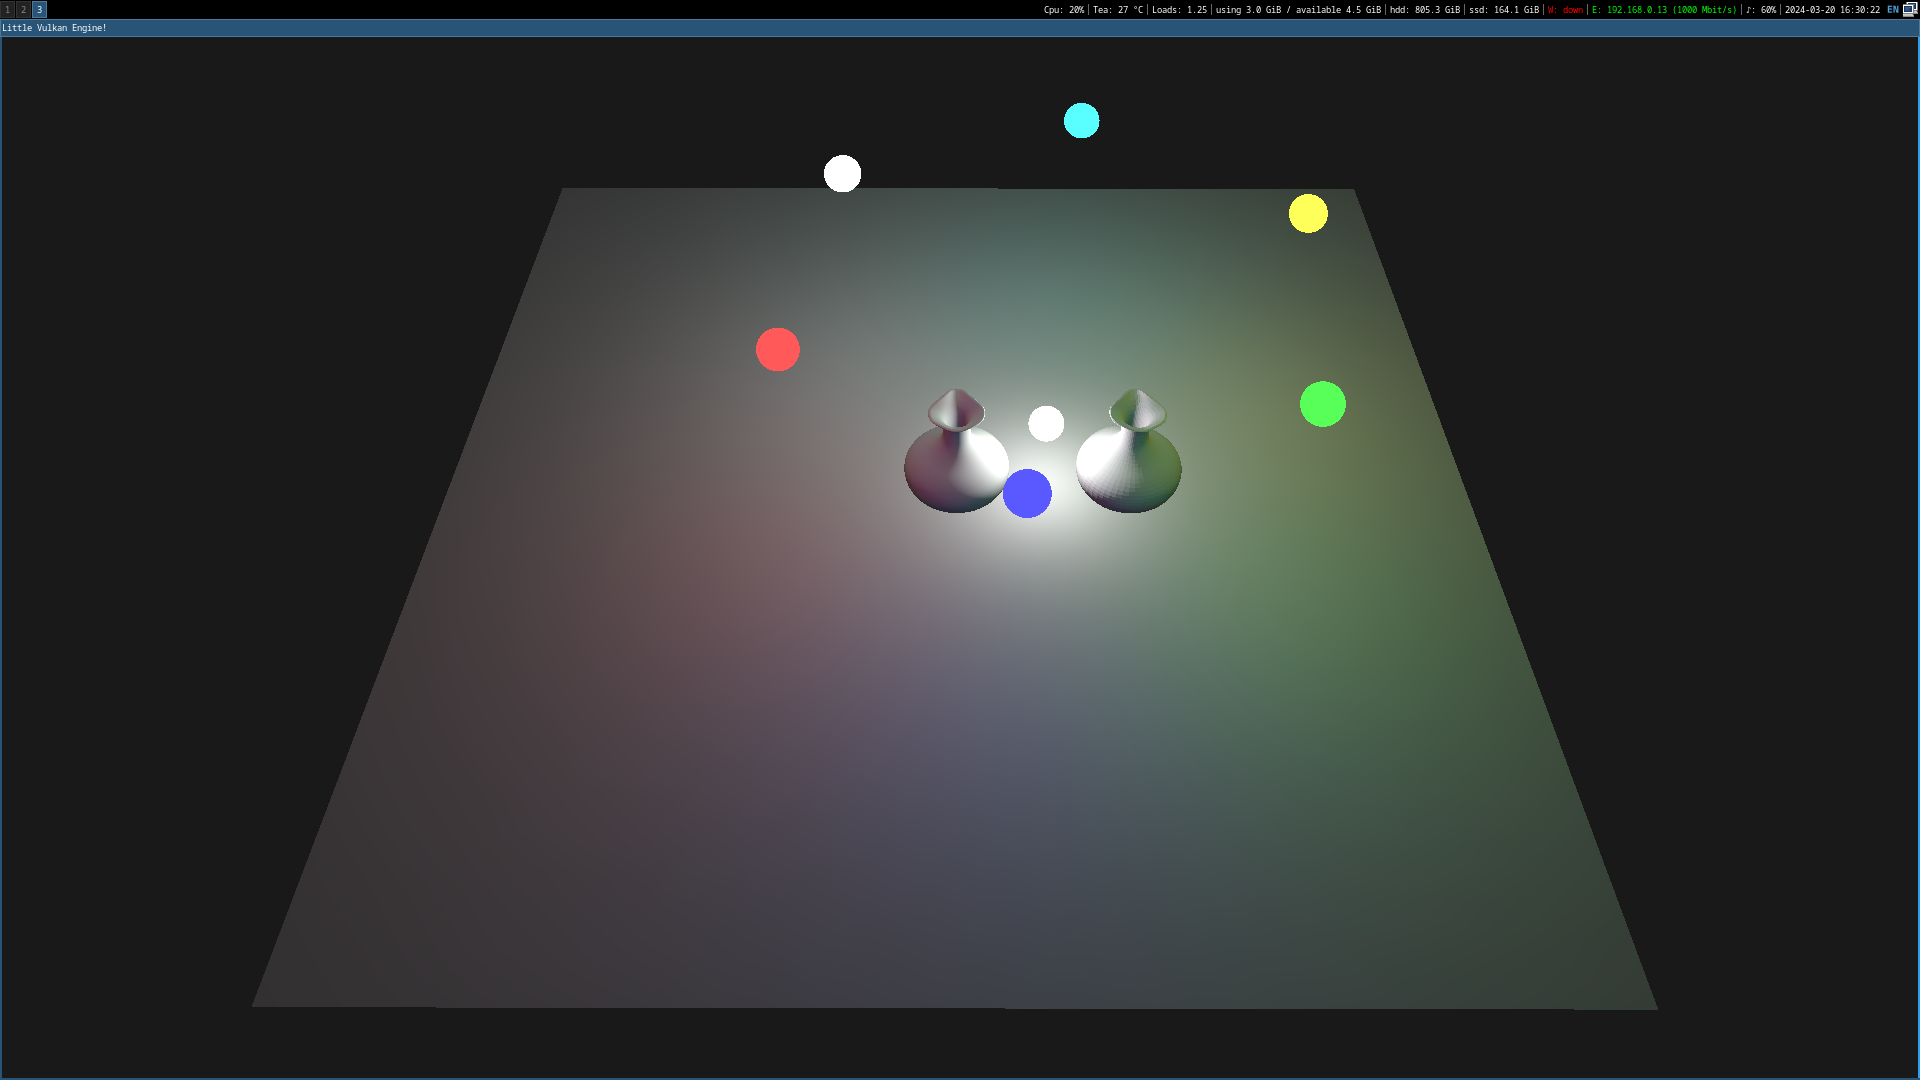
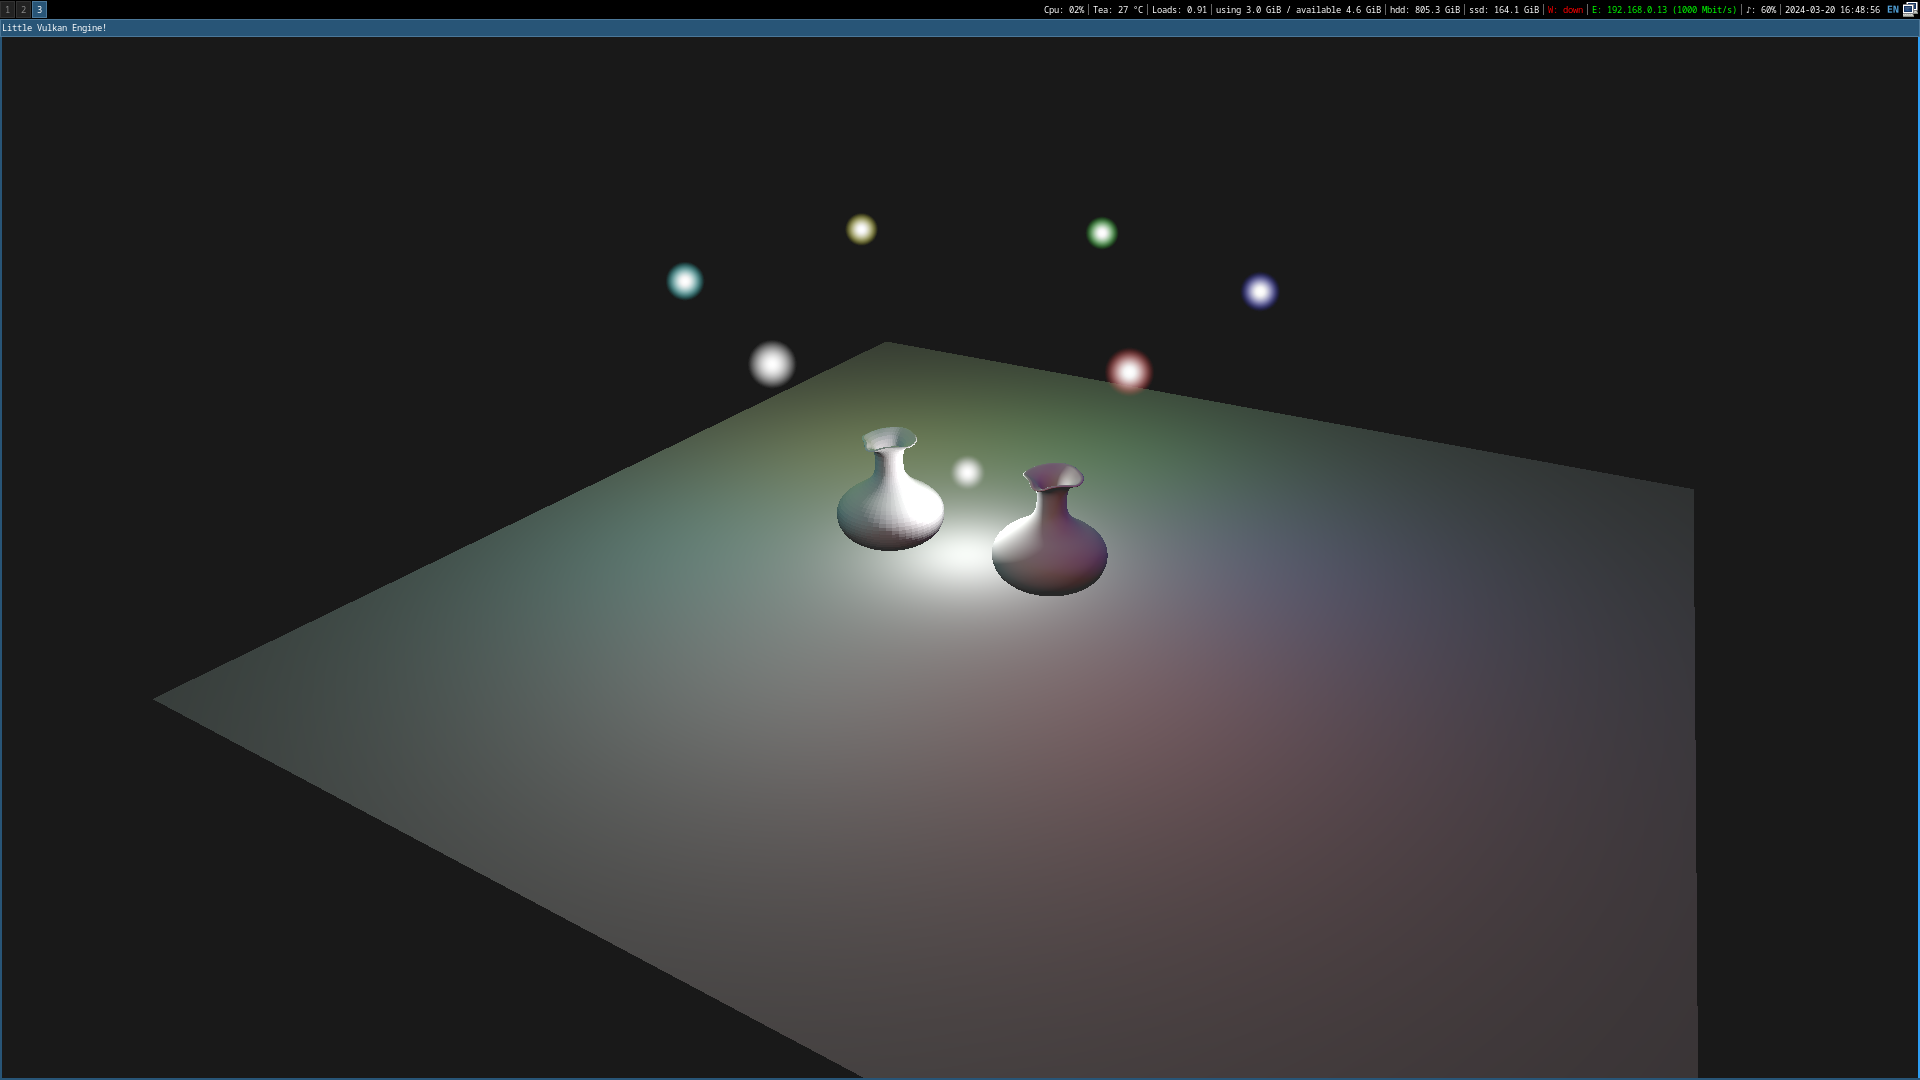
alpha blending and transparency

diff --git a/little_vulkan_engine/point_light_system.cpp b/little_vulkan_engine/point_light_system.cpp
@@ -7,6 +7,7 @@
 
 #include <array>
 #include <stdexcept>
+#include <map>
 
 namespace lve
 {
@@ -55,6 +56,8 @@ namespace lve
 
         PipelineConfigInfo pipelineConfig{};
         LvePipeline::defaultPipelineConfigInfo(pipelineConfig);
+        LvePipeline::enableAlphaBlending(pipelineConfig);
+
         pipelineConfig.attributeDescriptions.clear();
         pipelineConfig.bindingDescriptions.clear();
         pipelineConfig.renderPass = renderPass;
@@ -88,6 +91,16 @@ namespace lve
 
     void PointLightSystem::render(FrameInfo &frameInfo)
     {
+        std::map<float, LveGameObject::id_t> sorted;
+        for (auto& kv : frameInfo.gameObjects) {
+            auto& obj = kv.second;
+            if (obj.pointLight == nullptr) continue;
+
+            auto offset = frameInfo.camera.getPosition() - obj.transform.translation;
+            float disSquared = glm::dot(offset, offset);
+            sorted[disSquared] = obj.getId();
+        }
+
         this->lvePipeline->bind(frameInfo.commandBuffer);
         vkCmdBindDescriptorSets(
             frameInfo.commandBuffer,
@@ -99,10 +112,8 @@ namespace lve
             0,
             nullptr);
 
-        for (auto& kv : frameInfo.gameObjects) {
-            auto& obj = kv.second;
-            if (obj.pointLight == nullptr) continue;
-
+        for (auto it = sorted.rbegin(); it != sorted.rend(); ++it) {
+            auto& obj = frameInfo.gameObjects.at(it->second);
             PointLightPushConstants push{};
             push.position = glm::vec4(obj.transform.translation, 1.f);
             push.color = glm::vec4(obj.color, obj.pointLight->lightIntesity);

diff --git a/little_vulkan_engine/lve_pipeline.cpp b/little_vulkan_engine/lve_pipeline.cpp
@@ -204,4 +204,15 @@ namespace lve
         configInfo.bindingDescriptions = LveModel::Vertex::getBindingDescriptions();
         configInfo.attributeDescriptions = LveModel::Vertex::getAttributeDescriptions();
     }
+
+    void LvePipeline::enableAlphaBlending(PipelineConfigInfo& configInfo) {
+        configInfo.colorBlendAttachment.blendEnable = VK_TRUE;
+        configInfo.colorBlendAttachment.colorWriteMask = VK_COLOR_COMPONENT_R_BIT | VK_COLOR_COMPONENT_G_BIT | VK_COLOR_COMPONENT_B_BIT | VK_COLOR_COMPONENT_A_BIT;
+        configInfo.colorBlendAttachment.srcColorBlendFactor = VK_BLEND_FACTOR_SRC_ALPHA;
+        configInfo.colorBlendAttachment.dstColorBlendFactor = VK_BLEND_FACTOR_ONE_MINUS_SRC_ALPHA;
+        configInfo.colorBlendAttachment.colorBlendOp = VK_BLEND_OP_ADD;
+        configInfo.colorBlendAttachment.srcAlphaBlendFactor = VK_BLEND_FACTOR_ONE;
+        configInfo.colorBlendAttachment.dstAlphaBlendFactor = VK_BLEND_FACTOR_ZERO;
+        configInfo.colorBlendAttachment.alphaBlendOp = VK_BLEND_OP_ADD;
+    }
 }

diff --git a/little_vulkan_engine/lve_camera.hpp b/little_vulkan_engine/lve_camera.hpp
@@ -31,6 +31,7 @@ namespace lve
         const glm::mat4 &getProjection() const { return projectionMatrix; }
         const glm::mat4 &getView() const { return viewMatrix; }
         const glm::mat4 &getInverseView() const { return inverseViewMatrix; }
+        const glm::vec3 getPosition() const { return glm::vec3(inverseViewMatrix[3]); }
 
     private:
         glm::mat4 projectionMatrix{1.f};

diff --git a/little_vulkan_engine/lve_pipeline.hpp b/little_vulkan_engine/lve_pipeline.hpp
@@ -45,6 +45,7 @@ namespace lve
 
         void bind(VkCommandBuffer commandBuffer);
         static void defaultPipelineConfigInfo(PipelineConfigInfo& configInfo);
+        static void enableAlphaBlending(PipelineConfigInfo& configInfo);
 
     private:
         LveDevice &lveDevice;
